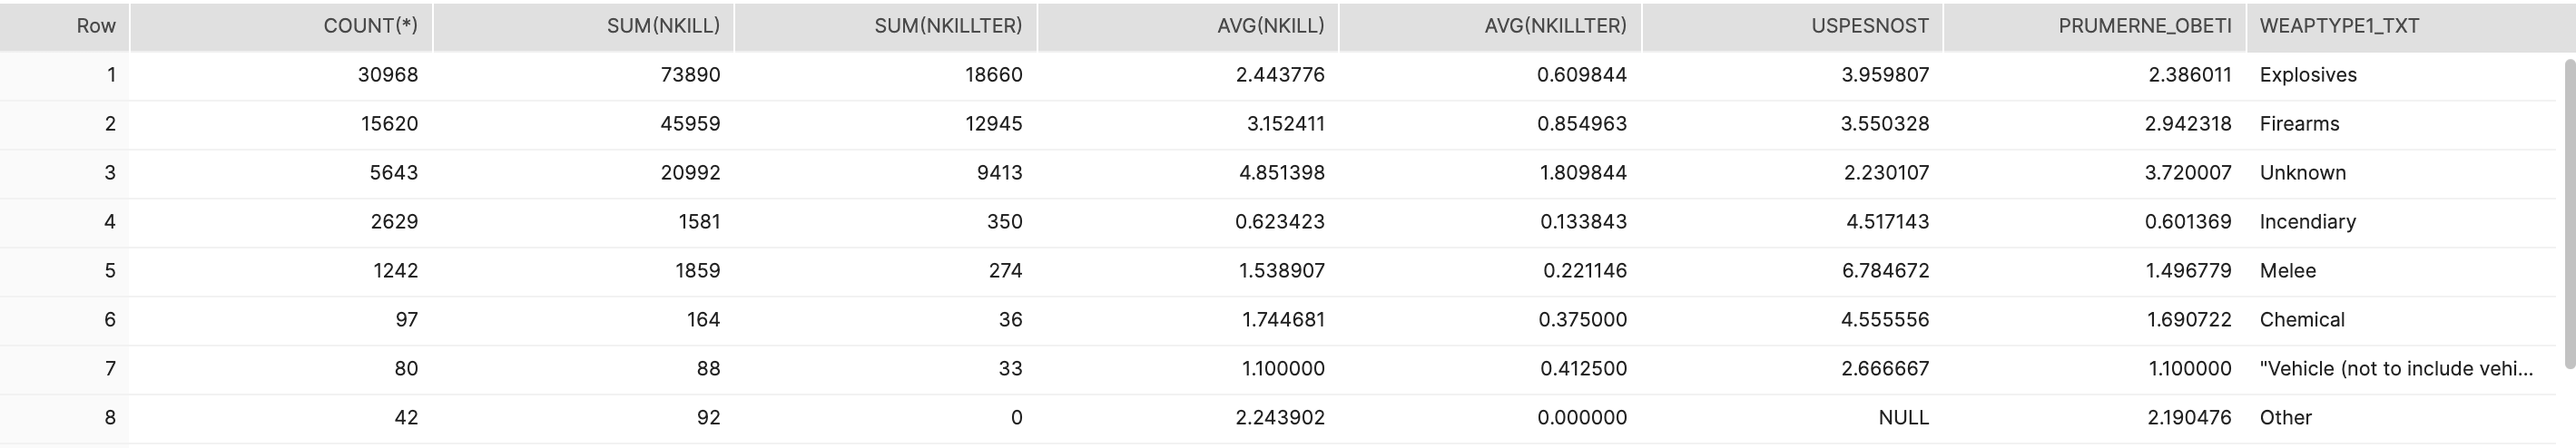
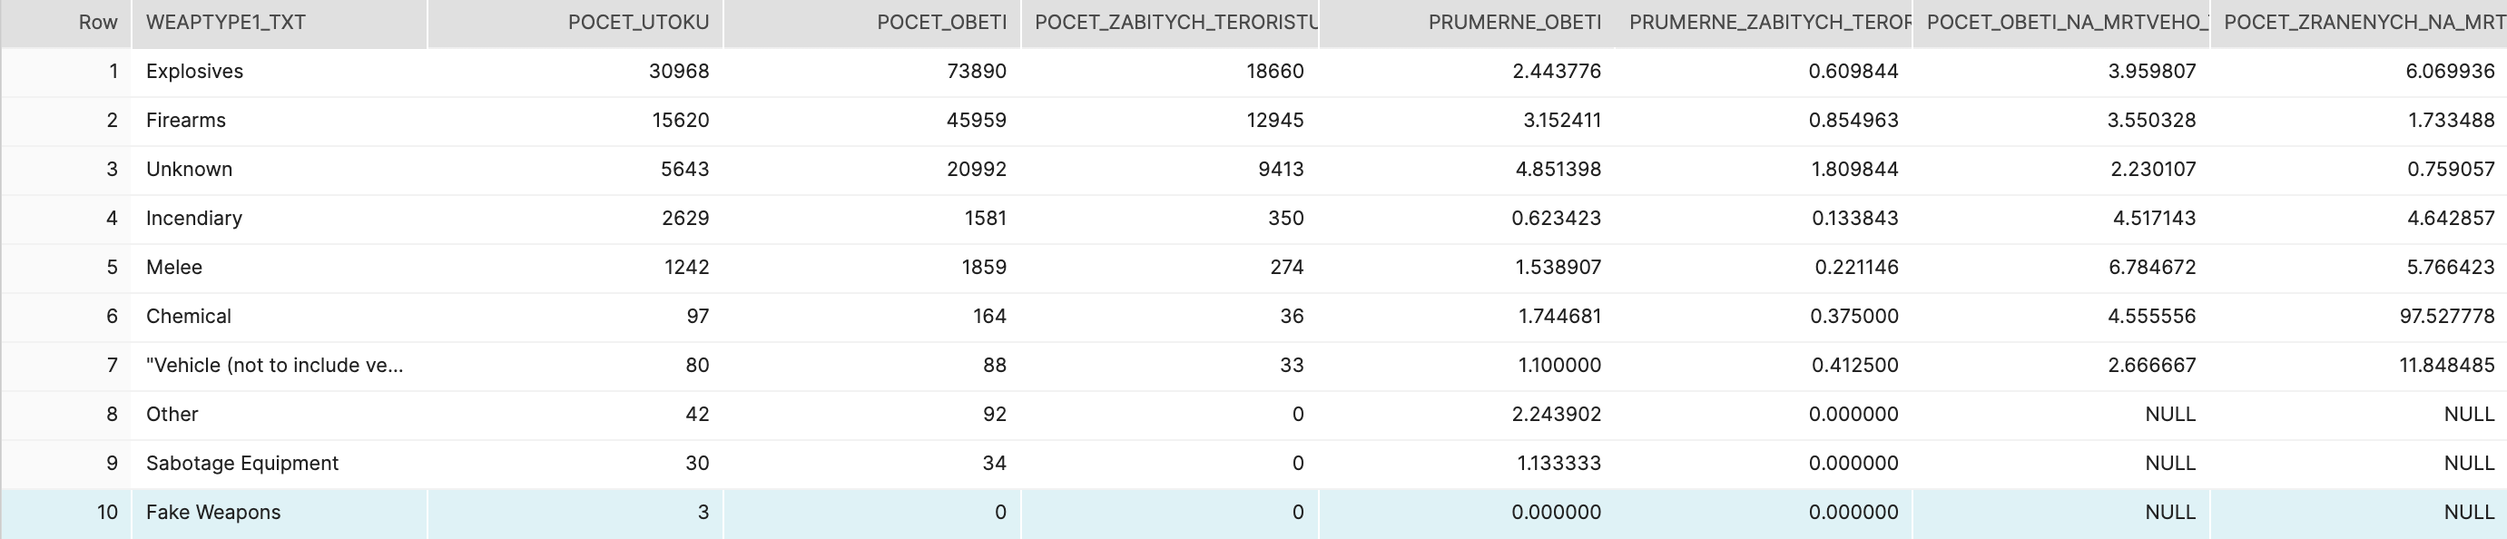
oprava ukoly 3A-screenshot a 3G-kod

diff --git a/src/components/Practice.vue b/src/components/Practice.vue
@@ -639,12 +639,20 @@ FROM teror; -- vytvorime sloupec kontinent podle regionu`, "SELECT IFNULL(nkillt
             },
             {
               header: "Vypište celkový počet útoků podle druhu zbraně weaptype1_txt , počet mrtvých, mrtvých teroristů, průměrný počet mrtvých, průměrný počet mrtvých teroristů, kolik mrtvých obětí připadá na jednoho mrtvého teroristu a kolik zraněných...",
-              code: `SELECT COUNT(*), SUM(nkill), SUM(nkillter), AVG(nkill), AVG(nkillter),
- CASE 
-   WHEN sum(nkillter) <> 0 THEN sum(nkill) / sum(nkillter)
-   ELSE NULL
- END AS uspesnost
- ,SUM(nkill) / COUNT(*) AS prumerne_obeti, weaptype1_txt 
+              code: `SELECT weaptype1_txt, 
+       COUNT(*) AS pocet_utoku, 
+       SUM(nkill) AS pocet_obeti, 
+       SUM(nkillter) AS pocet_zabitych_teroristu, 
+       AVG(nkill) AS prumerne_obeti, 
+       AVG(nkillter) AS prumerne_zabitych_teroristu,
+       CASE  
+         WHEN sum(nkillter) <> 0 THEN sum(nkill) / sum(nkillter)
+         ELSE NULL
+       END AS pocet_obeti_na_mrtveho_teroristu,
+       CASE  
+         WHEN sum(nkillter) <> 0 THEN sum(nwound) / sum(nkillter)
+         ELSE NULL
+       END AS pocet_zranenych_na_mrtveho_teroristu
  FROM teror GROUP BY weaptype1_txt ORDER BY COUNT(*) DESC;`,
               screen: require("@/assets/lessons/3G.png"),
               screen_visible: false
